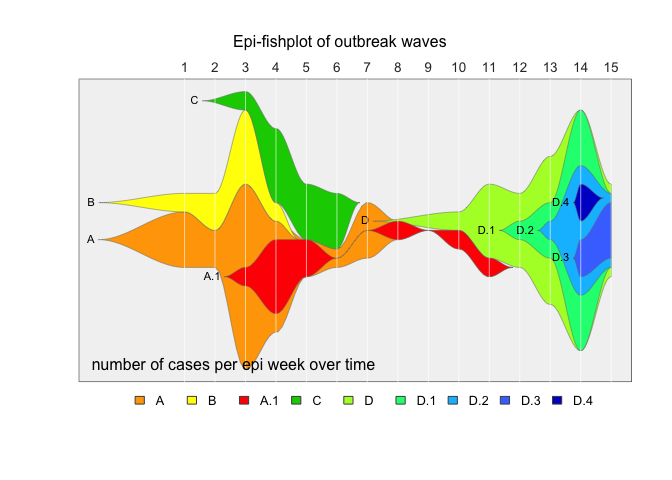
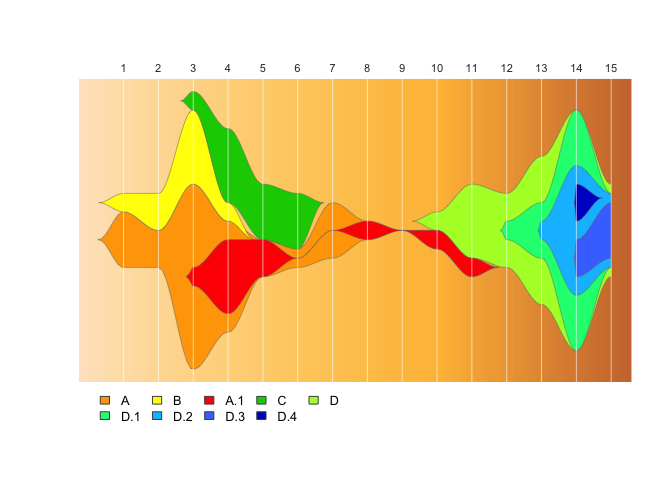
bugfix for tidyverse addiing .group columns & a README update

diff --git a/README.md b/README.md
@@ -68,6 +68,7 @@ relative count matrix that fulfils these requirements.
       - [Control legend spacing](#control-legend-spacing)
       - [Change cluster label
         appearance](#change-cluster-label-appearance)
+      - [Don’t show cluster labels](#dont-show-cluster-labels)
       - [Change fishplot titles and
         background](#change-fishplot-titles-and-background)
   - [Citation](#citation)
@@ -1805,7 +1806,7 @@ fishplot::fishPlot(epifish_output$fish, shape="spline",
 
 #### Use completely manual timepoint lines and labels
 
-We can specify ompletely custom timepoints and labels that describe an
+We can specify completely custom timepoints and labels that describe an
 epidemiological story, with red lines:
 
 ``` r
@@ -1915,6 +1916,35 @@ fishplot::drawLegend(epifish_output$fish)
 
 <img src="man/figures/README-unnamed-chunk-30-1.png" width="100%" />
 
+### Don’t show cluster labels
+
+If you don’t want to show the cluster labels on the fishplot, set
+`label_clusters=FALSE` in
+`epifish::build_epifish()`.
+
+``` r
+epifish_output <- build_epifish (sample_df, parent_df, colour_df, label_clusters=FALSE)
+#> Checking for missing timepoints: 
+#>  - Adding zero counts for missing timepoint: 9
+#> setting parent position of child A.1  to  1 
+#> setting parent position of child D.3  to  7 
+#> setting parent position of child D.2  to  6 
+#> setting parent position of child D.1  to  5 
+#> setting parent position of child D.4  to  7 
+#> Padding parent values in matrix: 
+#> adding child  D.4  to parent  D.2 
+#> adding child  D.3  to parent  D.2 
+#> adding child  D.2  to parent  D.1 
+#> adding child  D.1  to parent  D 
+#> adding child  A.1  to parent  A 
+#> The maximum sample count per timepoint (height of Y-axis) is:  15
+
+fishplot::fishPlot(epifish_output$fish, shape="spline", vlines=epifish_output$timepoints, vlab=epifish_output$timepoint_labels,  pad.left=0.05)
+fishplot::drawLegend(epifish_output$fish)
+```
+
+<img src="man/figures/README-unnamed-chunk-31-1.png" width="100%" />
+
 ### Change fishplot titles and background
 
 You can also adjust assorted aspects of the fishplot as arguments to
@@ -1948,7 +1978,7 @@ fishplot::fishPlot(epifish_output$fish, shape="spline", vlines=epifish_output$ti
 fishplot::drawLegend(epifish_output$fish, nrow=1, xpos=-1)
 ```
 
-<img src="man/figures/README-unnamed-chunk-31-1.png" width="100%" />
+<img src="man/figures/README-unnamed-chunk-32-1.png" width="100%" />
 
 ## Citation:
 
